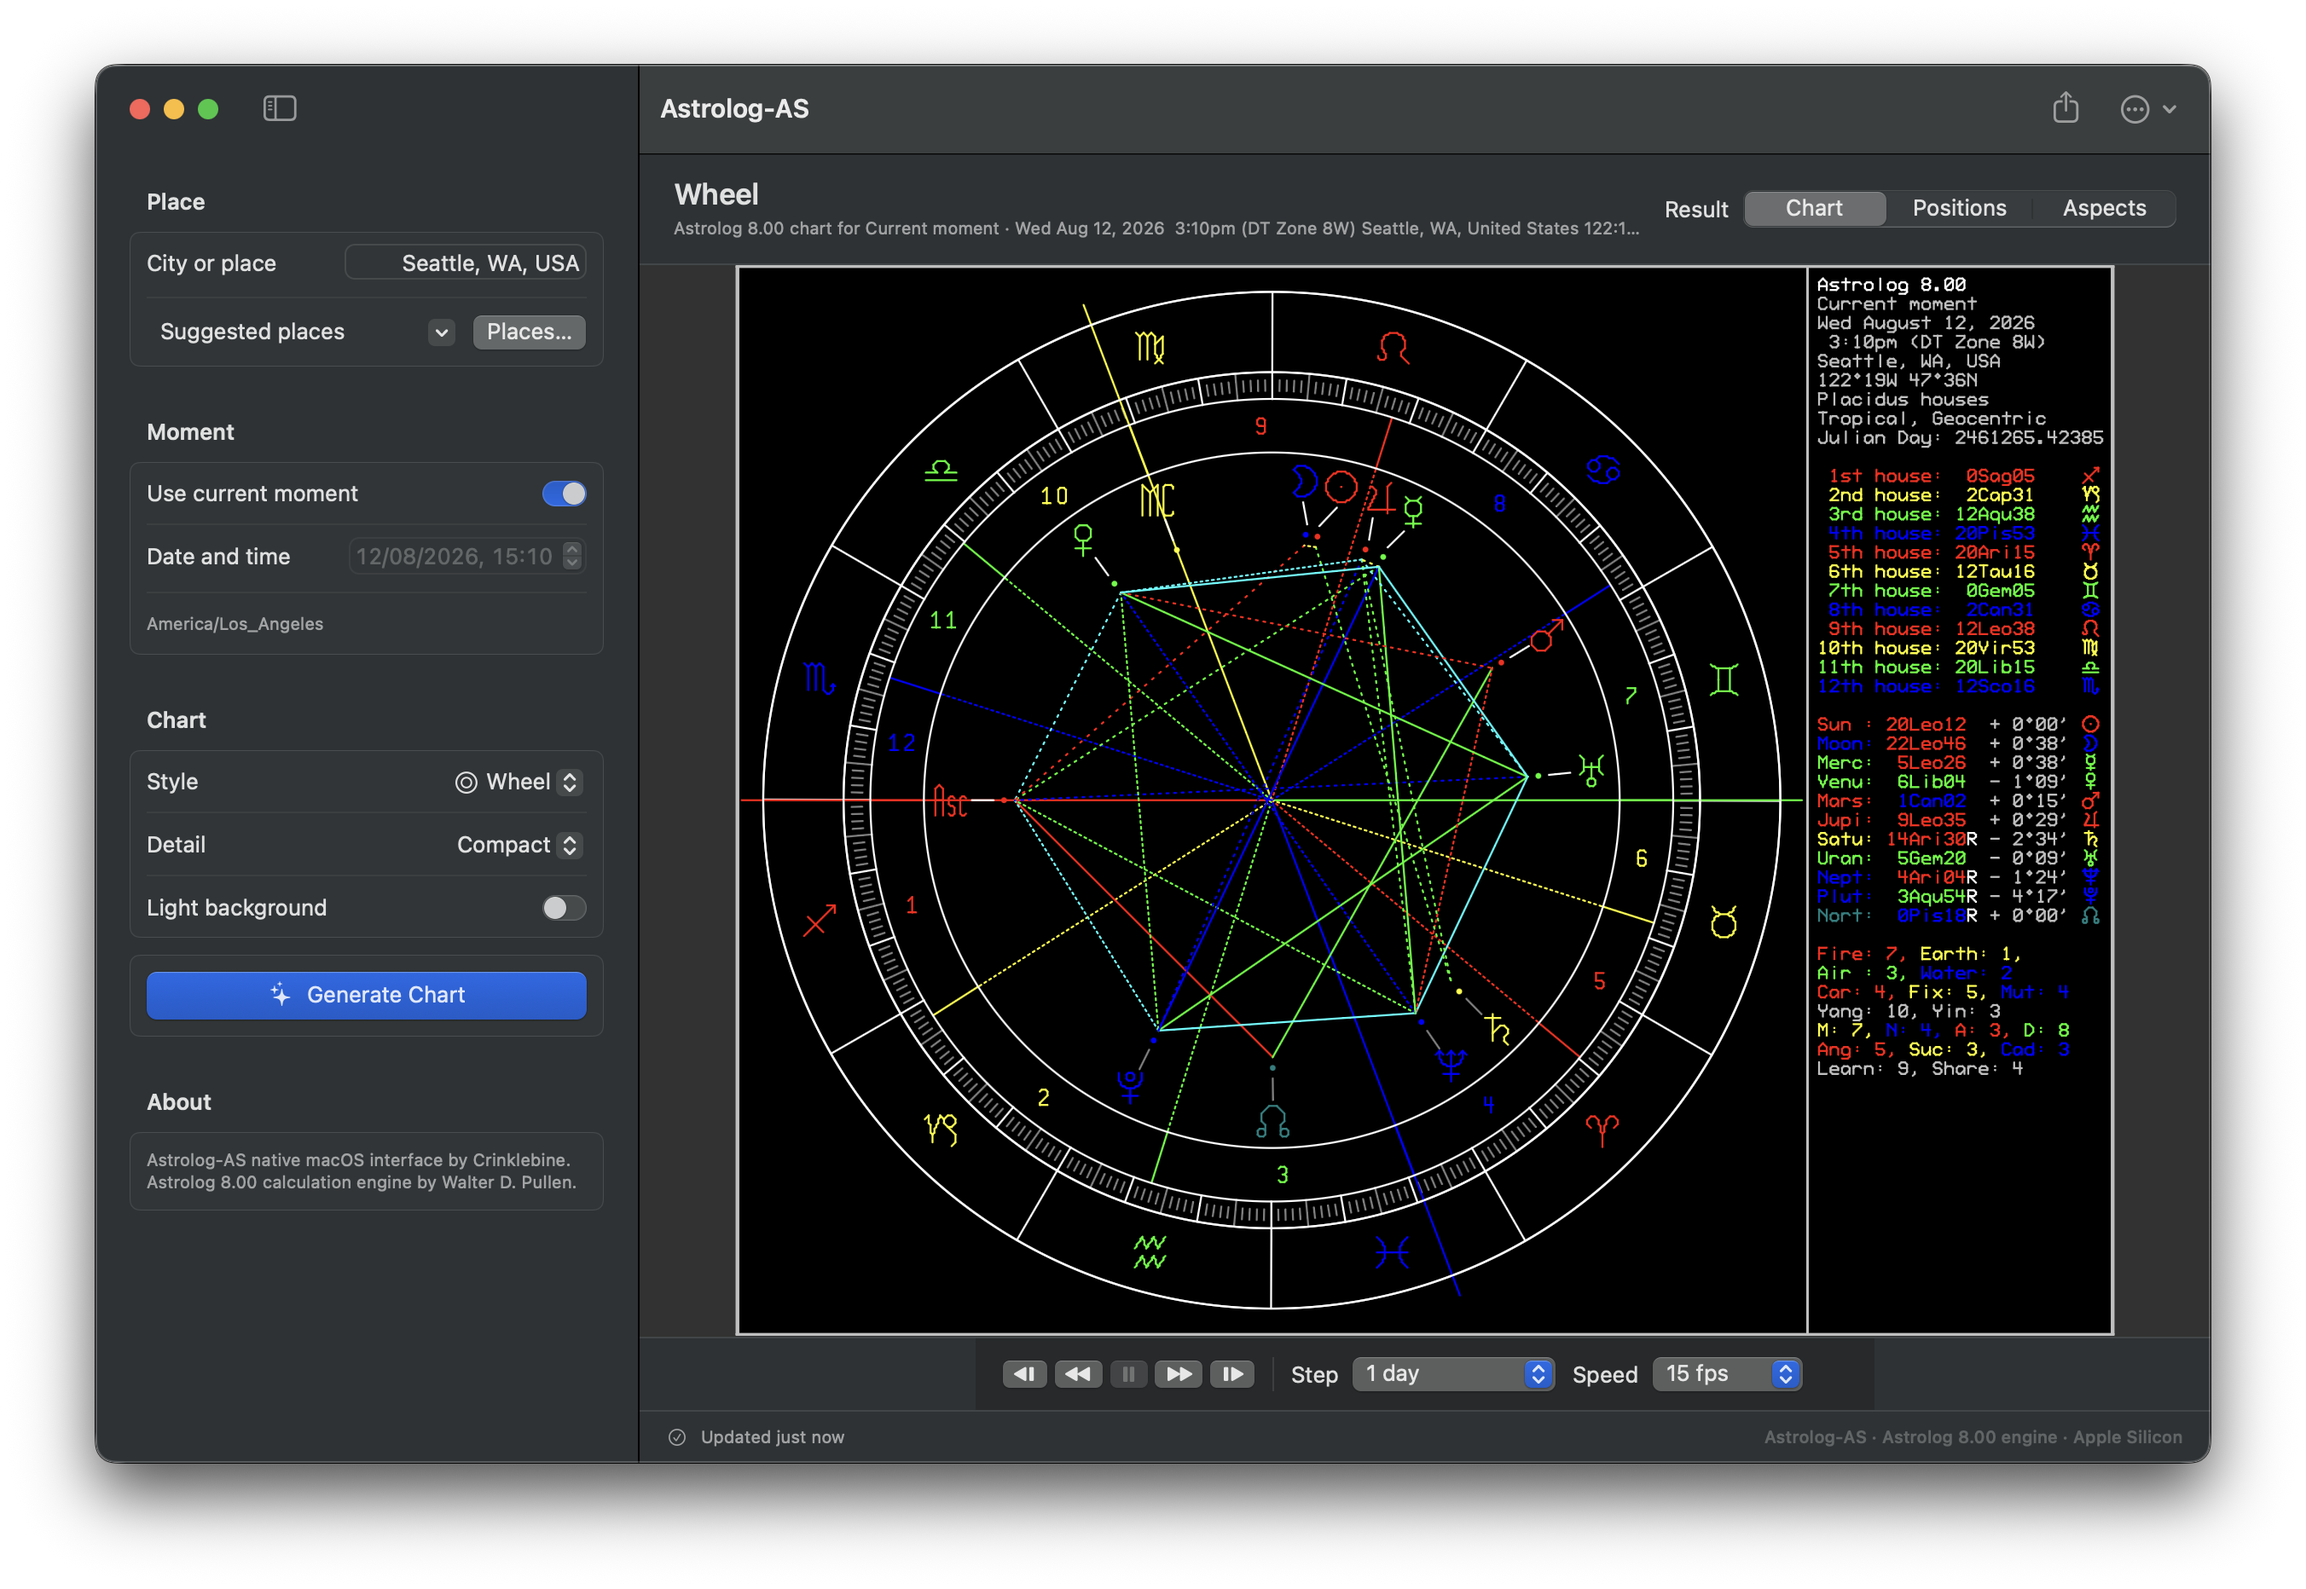
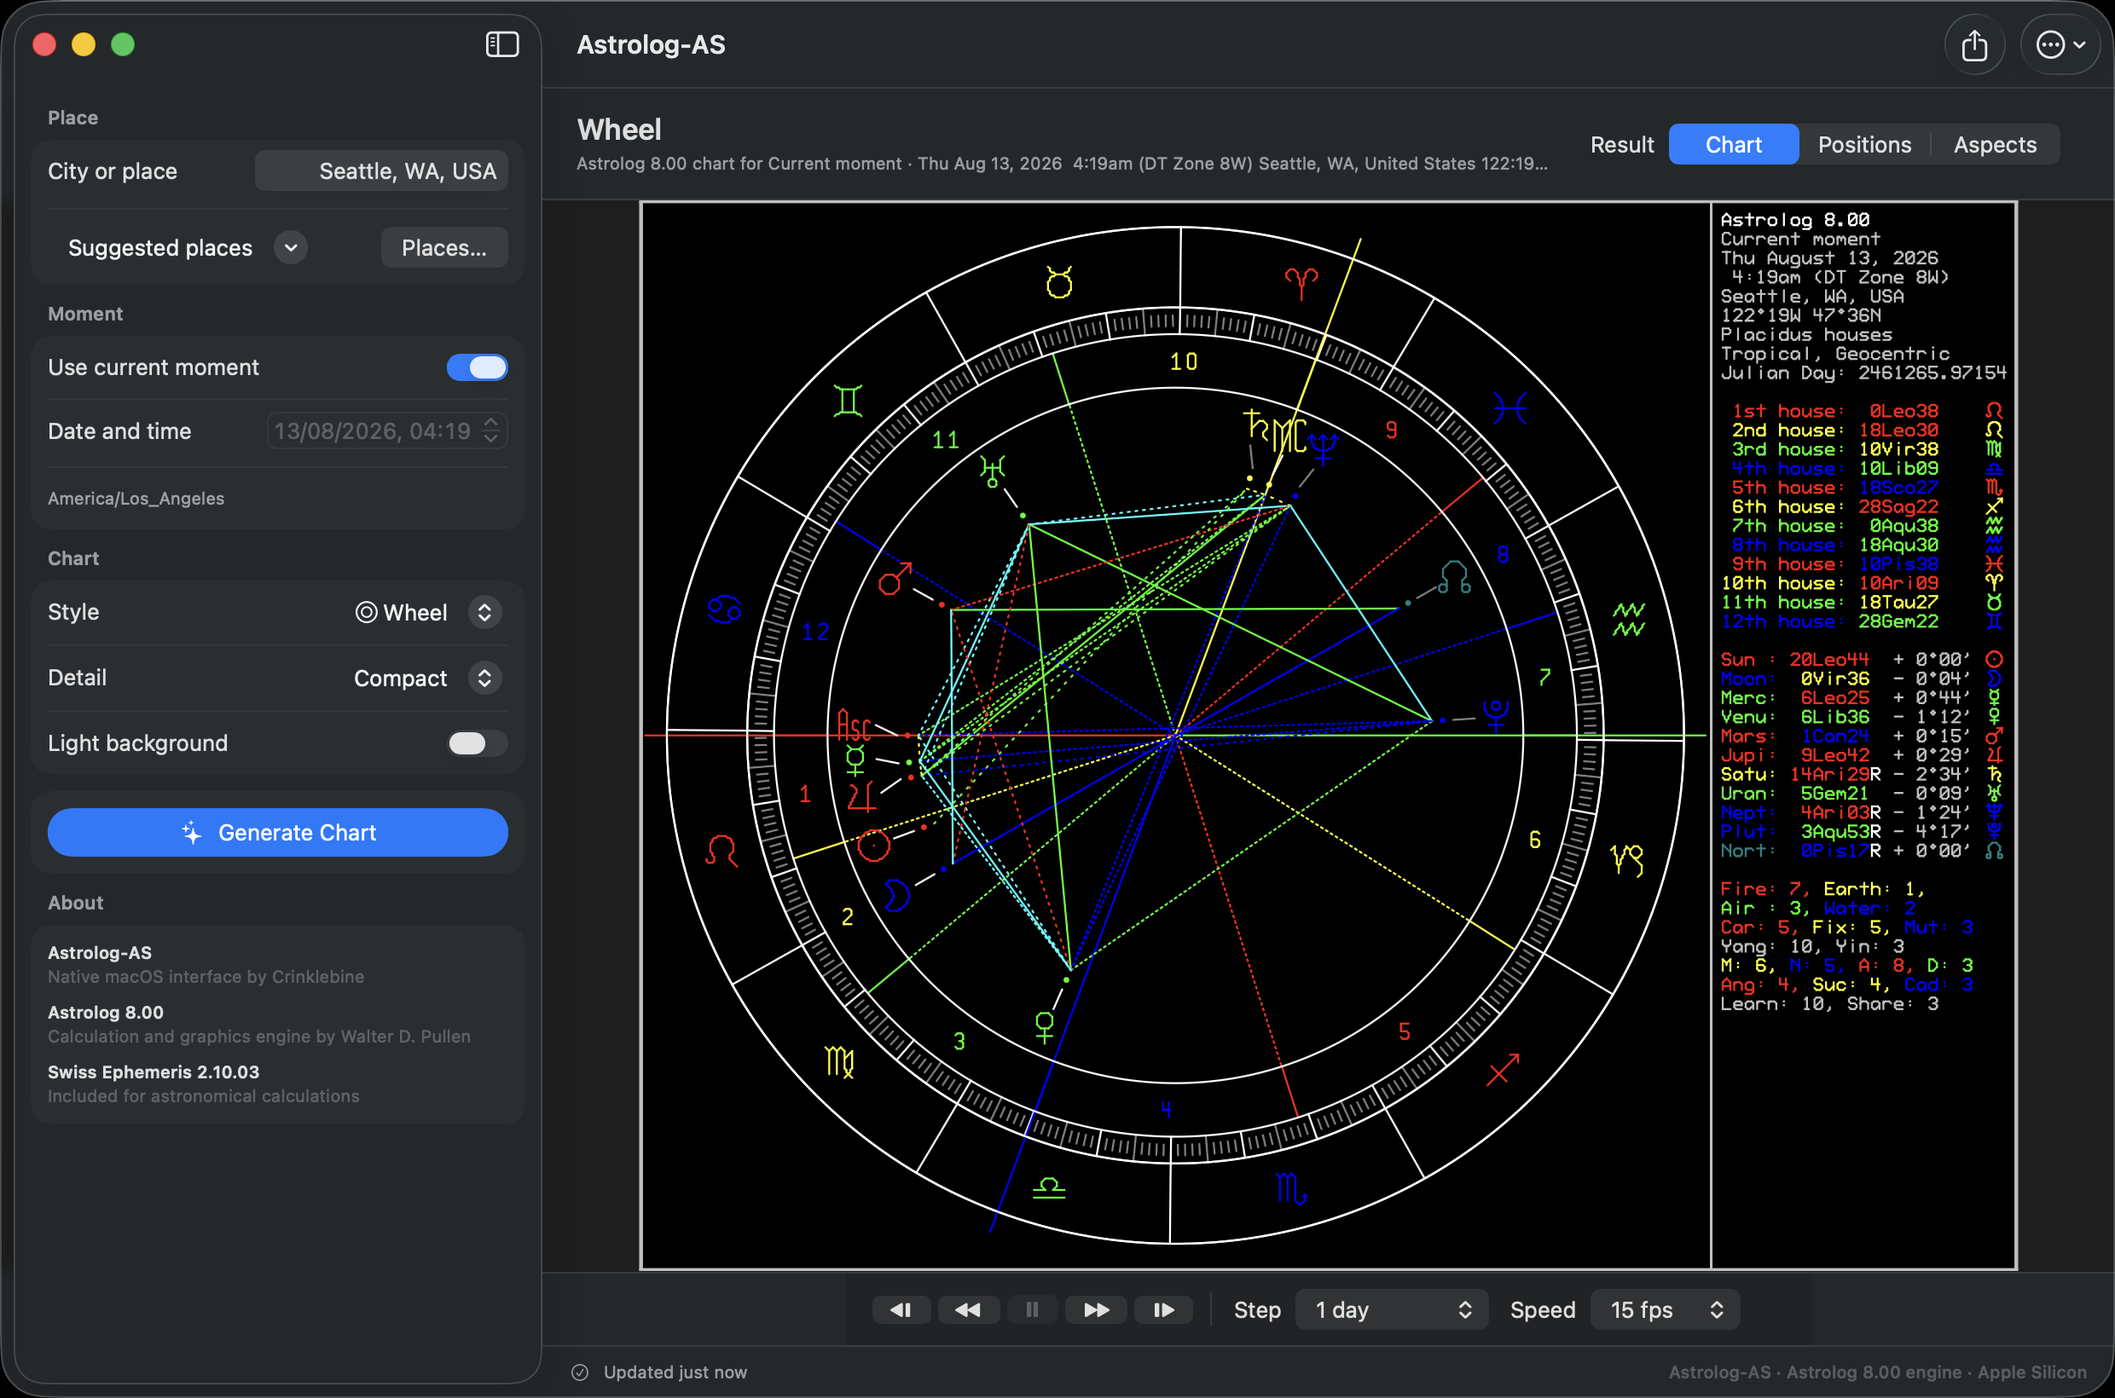
Prepare build 800.28 attribution release

diff --git a/macos/AstrologApp.swift b/macos/AstrologApp.swift
@@ -1347,9 +1347,17 @@ struct SidebarView: View {
       }
 
       Section("About") {
-        Text("Astrolog-AS native macOS interface by Crinklebine. Astrolog 8.00 calculation engine by Walter D. Pullen.")
-          .font(.caption)
-          .foregroundStyle(.secondary)
+        VStack(alignment: .leading, spacing: 8) {
+          AboutAttribution(
+            component: "Astrolog-AS",
+            detail: "Native macOS interface by Crinklebine")
+          AboutAttribution(
+            component: "Astrolog 8.00",
+            detail: "Calculation and graphics engine by Walter D. Pullen")
+          AboutAttribution(
+            component: "Swiss Ephemeris 2.10.03",
+            detail: "Included for astronomical calculations")
+        }
       }
     }
     .formStyle(.grouped)
@@ -1365,6 +1373,22 @@ struct SidebarView: View {
     DispatchQueue.main.async {
       Task { await model.generate() }
     }
+  }
+}
+
+private struct AboutAttribution: View {
+  let component: String
+  let detail: String
+
+  var body: some View {
+    VStack(alignment: .leading, spacing: 1) {
+      Text(component)
+        .fontWeight(.semibold)
+      Text(detail)
+        .foregroundStyle(.tertiary)
+    }
+    .font(.caption)
+    .fixedSize(horizontal: false, vertical: true)
   }
 }
 

diff --git a/README.md b/README.md
@@ -10,9 +10,9 @@ engine that calculates and renders each chart.
 ## Download and install
 
 The current release is
-[Astrolog-AS 8.00 (build 800.27)](https://github.com/Crinklebine/astrolog-as/releases/tag/v8.00-as.27).
+[Astrolog-AS 8.00 (build 800.28)](https://github.com/Crinklebine/astrolog-as/releases/tag/v8.00-as.28).
 Download the
-[Apple Silicon DMG](https://github.com/Crinklebine/astrolog-as/releases/download/v8.00-as.27/Astrolog-AS-800.27-arm64.dmg).
+[Apple Silicon DMG](https://github.com/Crinklebine/astrolog-as/releases/download/v8.00-as.28/Astrolog-AS-800.28-arm64.dmg).
 
 Astrolog-AS requires an Apple Silicon Mac running macOS 14 Sonoma or later.
 
@@ -159,5 +159,10 @@ GitHub release.
 Astrolog is copyright Walter D. Pullen. Astrolog and the Astrolog-AS interface
 contributions by Crinklebine are distributed under the GNU General Public
 License version 2 or, at your option, any later version
-([`GPL-2.0-or-later`](license.htm)). Third-party materials remain under their
-respective licenses.
+([`GPL-2.0-or-later`](license.htm)).
+
+Astrolog-AS and Astrolog include Swiss Ephemeris 2.10.03, a third-party
+component used for astronomical ephemeris calculations. Swiss Ephemeris is
+distributed under its own licensing terms, and Astrolog-AS does not claim
+authorship of it. Its copyright and license notices remain in the bundled
+Swiss Ephemeris source files. See [THIRD_PARTY_NOTICES.md](THIRD_PARTY_NOTICES.md).

diff --git a/THIRD_PARTY_NOTICES.md b/THIRD_PARTY_NOTICES.md
@@ -1,0 +1,15 @@
+# Third-Party Notices
+
+## Swiss Ephemeris
+
+- **Component:** Swiss Ephemeris
+- **Bundled version:** 2.10.03
+- **Copyright:** Copyright (C) 1997 - 2021 Astrodienst AG, Switzerland. All rights reserved.
+- **Licensing:** Swiss Ephemeris is offered under a dual-license system: the
+  GNU Affero General Public License (AGPL) or the Swiss Ephemeris Professional
+  License.
+- **Official project:** [Swiss Ephemeris](https://www.astro.com/swisseph/)
+
+The authoritative terms are the copyright and license notices contained in
+the bundled Swiss Ephemeris source files. This summary does not replace those
+notices.
